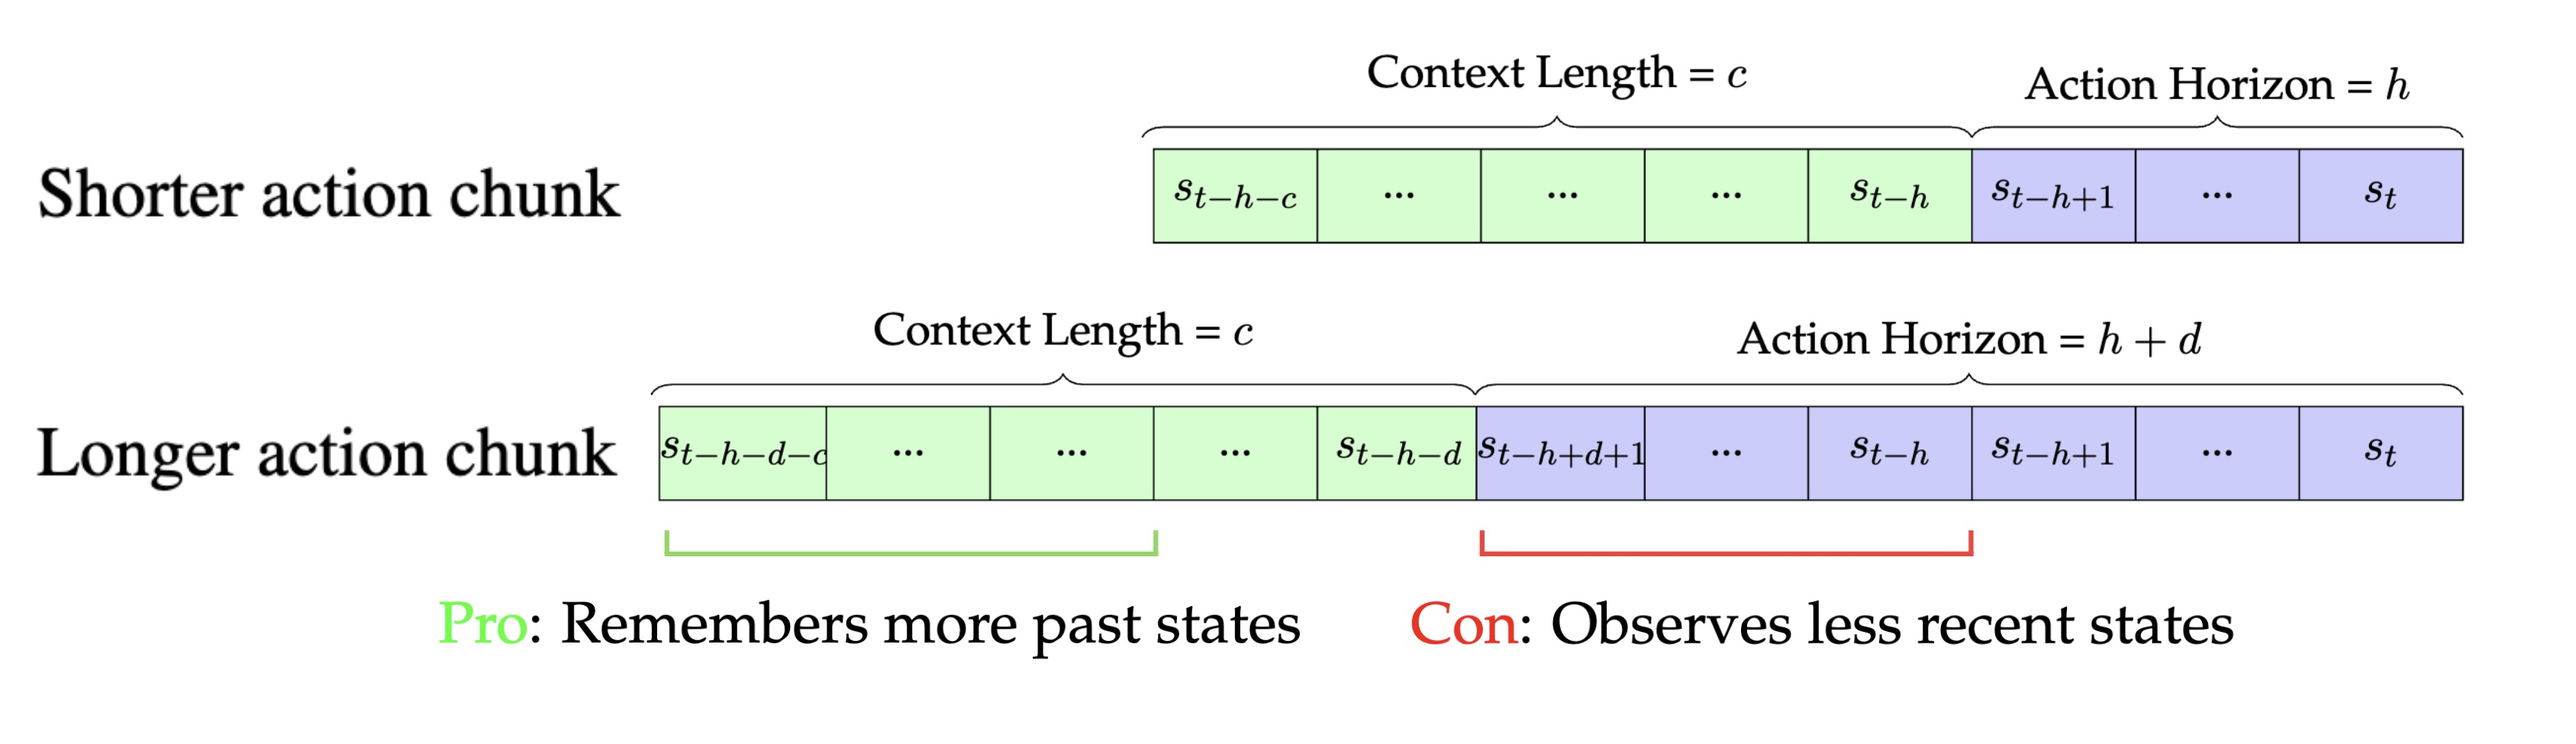
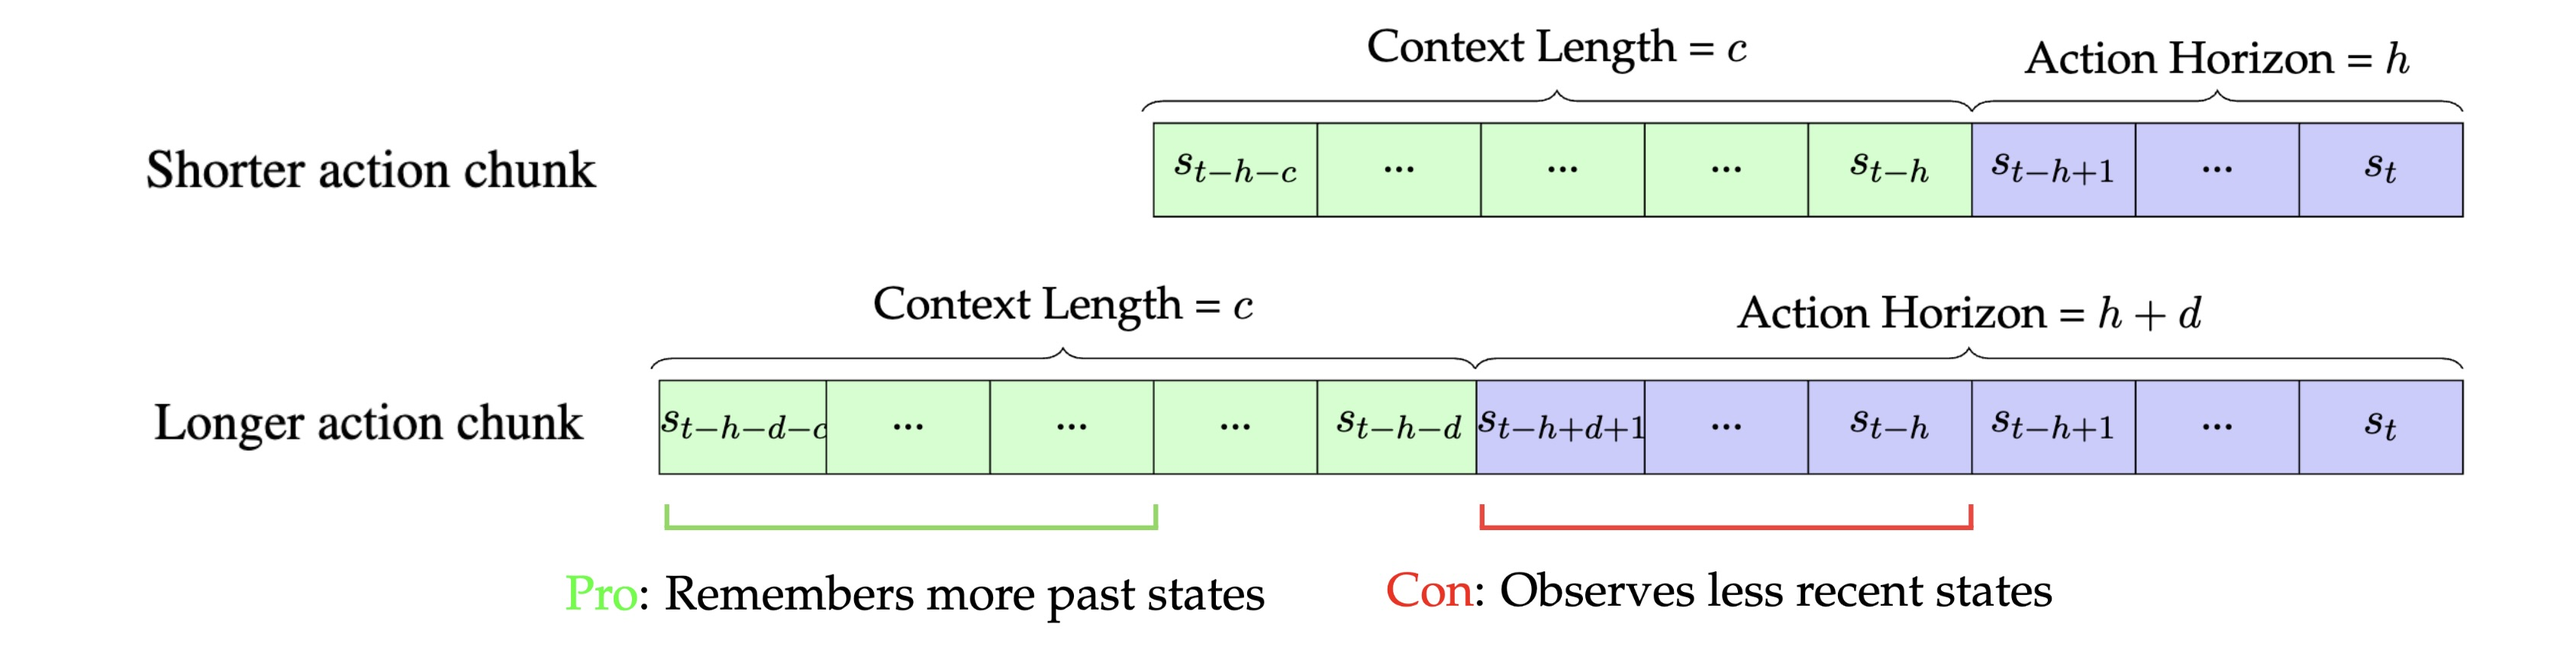
Polish

diff --git a/index.html b/index.html
@@ -6,7 +6,7 @@
         content="Bidirectional Behavioral Sampling.">
   <meta name="keywords" content="BBS">
   <meta name="viewport" content="width=device-width, initial-scale=1">
-  <title>Bidirectional Behavioral Sampling: Understanding and Improving Action Chunking for Generative Behavioral Cloning.</title>
+  <title>Bidirectional Behavioral Sampling: Understanding and Improving Action Chunking for Generative Behavioral Cloning</title>
 
   <!-- Global site tag (gtag.js) - Google Analytics -->
   <script async src="https://www.googletagmanager.com/gtag/js?id=G-PYVRSFMDRL"></script>
@@ -33,7 +33,7 @@
   <link rel="stylesheet"
         href="https://cdn.jsdelivr.net/gh/jpswalsh/academicons@1/css/academicons.min.css">
   <link rel="stylesheet" href="./static/css/index.css">
-  <link rel="icon" href="./static/images/favicon.svg">
+  <link rel="icon" href="./static/images/bbsicon.png">
 
   <script src="https://ajax.googleapis.com/ajax/libs/jquery/3.5.1/jquery.min.js"></script>
   <script defer src="./static/js/fontawesome.all.min.js"></script>
@@ -42,6 +42,7 @@
   <script src="./static/js/index.js"></script>
   <script src="https://polyfill.io/v3/polyfill.min.js?features=es6"></script>
   <script id="MathJax-script" async src="https://cdn.jsdelivr.net/npm/mathjax@3/es5/tex-mml-chtml.js"></script>
+
 </head>
 <body>
 
@@ -91,7 +92,7 @@
     <div class="container is-max-desktop">
       <div class="columns is-centered">
         <div class="column has-text-centered">
-          <h1 class="title is-1 publication-title">Bidirectional Behavioral Sampling: Understanding and Improving Action Chunking for Generative Behavioral Cloning.</h1>
+          <h1 class="title is-1 publication-title">Bidirectional Behavioral Sampling: Understanding and Improving Action Chunking for Generative Behavioral Cloning</h1>
           <div class="is-size-5 publication-authors">
             <span class="author-block">
               <a href="https://sites.google.com/view/yuejiangliu/home">Yuejiang Liu</a><sup>*</sup>,</span>
@@ -234,7 +235,6 @@
   </div>
 </section> -->
 
-
 <section class="section">
   <div class="container is-max-desktop">
     <!-- Abstract. -->
@@ -269,7 +269,7 @@
   <div class="container is-max-desktop">
     <div class="columns is-centered has-text-centered">
       <div class="column is-four-fifths">
-        <figure class="image is-centered">
+        <figure class="image is-centered" style="margin-bottom: 0;">
           <img src="./static/images/teaser.png" alt="Analysis image">
         </figure>
       </div>
@@ -277,7 +277,7 @@
   </div>
 </section>
 
-<section class="section">
+<section class="section" style="padding-top: 1rem;">
   <div class="container is-max-desktop">
     <!-- Abstract. -->
     <div class="columns is-centered has-text-centered">
@@ -288,6 +288,89 @@
   </div>
 </section>
 
+
+<!-- <section class="section">
+  <div class="container is-max-desktop">
+    <div class="columns is-centered has-text-centered">
+      <div class="column is-four-fifths">
+        <h2 class="title is-3">Abstract</h2>
+        <div class="content has-text-justified">
+          <p>
+            Predicting and executing a sequence of actions without intermediate replanning, known as action chunking, is increasingly used in robot learning from human demonstrations. However, its reported effects on the learned policy are inconsistent; some studies find it crucial for achieving strong results, while others observe decreased performance. In this paper, we first dissect how action chunking impacts the divergence between the learner and the demonstrator. We find that action chunking allows the model to capture the temporal dependencies in demonstrations (e.g., from high-level strategies and styles), but at the potential cost of accumulating uncertainty in dynamic environments (e.g., stochastic noise and unexpected changes), leading to compounding errors. To address this, we propose bidirectional behavioral sampling (BBS), a test-time inference algorithm that integrates action chunking with closed-loop operations. BBS samples a batch of multiple action chunks at each time step and explicitly searches for the optimal action based on two criteria: (i) backward decision coherence, which favors samples aligned with previous decisions, (ii) forward horizon contrast, which favors samples close to long-horizon plans and far from short-horizon ones. By coupling decisions within and across action chunks, BBS promotes strong temporal dependencies over multiple steps while maintaining high reactivity to unexpected state observations. Our experiment results show that BBS consistently outperforms conventional closed-loop operations, achieving an average of 26% relative improvements across seven manipulation tasks.
+          </p>
+        </div>
+      </div>
+    </div>
+  </div>
+</section>
+
+
+<section class="section">
+  <div class="container is-max-desktop">
+    <div class="columns is-centered has-text-centered">
+      <div class="column is-four-fifths">
+        <figure class="image is-centered">
+          <img src="./static/images/teaser.png" alt="Analysis image">
+        </figure>
+      </div>
+    </div>
+  </div>
+</section>
+
+<section class="section">
+  <div class="container is-max-desktop">
+    <div class="columns is-centered has-text-centered">
+      <div class="column is-four-fifths">
+        <h2 class="title is-3">Analysis</h2>
+      </div>
+    </div>
+  </div>
+</section> -->
+
+<section class="section">
+  <div class="container is-max-desktop">
+    <div class="columns is-centered has-text-centered">
+      <div class="column is-four-fifths">
+        <div class="content has-text-justified">
+          <p>
+            In action chunking, the agent predicts the joint distribution of a sequence of actions conditioned on the context and then executes all or part of the sequence without replanning. In our analysis, we investigate the benefits and drawbacks of using a longer action chunk. Consider a shorter action chunk of length \( h \) and a longer one of length \( h + d \). The longer action chunk benefits from remembering more past states and suffers from having not observed the more recent states, as is illustrated below:
+          </p>
+        </div>
+      </div>
+    </div>
+  </div>
+</section>
+
+<section class="section" style="padding-top: 0;">
+  <div class="container is-max-desktop">
+    <div class="columns is-centered has-text-centered">
+      <div class="column is-four-fifths">
+        <figure class="image is-centered" style="margin-top: 0; margin-bottom: 0;">
+          <img src="./static/images/Action Chunking.png" alt="Analysis gif" style="width: 90%; height: auto; display: block; margin: 0 auto;">
+        </figure>
+      </div>
+    </div>
+  </div>
+</section>
+
+<section class="section" style="padding-top: 1rem;">
+  <div class="container is-max-desktop">
+    <div class="columns is-centered has-text-centered">
+      <div class="column is-four-fifths">
+        <div class="content has-text-justified">
+          <p>
+            Let the longer action chunk's distribution of \( a_t \) be \( \pi_{(c, h+d)}^t \) and that of the shorter action chunk be \( \pi_{(c, h)}^t \). Let the expert's distribution be \(\pi_{E}^t \).  
+            The expected loss of the two agents with respect to the expert are related by the following inequality. 
+            $$ \min_{\pi_{(c, h+d)}^t} \mathbb{E}_{G} \left[ \mathcal{L}(\pi_{(c, h+d)}^t - \pi_E^t) | C \right] \leq \min_{\pi_{(c, h)}^t} \mathbb{E}_{G} \left[\mathcal{L}(\pi_{(c, h)}^t - \pi_E^t) | C \right] - \alpha + \epsilon(1 - ( 1 - \delta)^{2d}). $$ 
+            Here, \( \alpha \) represents the advantage from capturing more temporal dependencies in demos, showing a longer action chunk benefits from longer temporal coherence whilst suffering from \( \epsilon( 1 - (1 - \delta)^{2d} ) \) representing the loss due to dynamics uncertainty in the environment. 
+          </p>
+        </div>
+      </div>
+    </div>
+  </div>
+</section>
+
+<!-- 
 
 <section class="section">
   <div class="container is-max-desktop">
@@ -334,7 +417,7 @@
     </div>
   </div>
 </section>
-
+ -->
 
 <!-- <section class="section">
   <div class="container is-max-desktop">
@@ -352,10 +435,39 @@
 </section> -->
 
 
-<!-- Method section -->
 <section class="section">
   <div class="container is-max-desktop">
-    <!-- Abstract. -->
+    <div class="columns is-centered has-text-centered">
+      <div class="column is-four-fifths">
+        <h2 class="title is-3">Method</h2>
+        <div class="content has-text-justified">
+          <p>
+            Our hypothesis suggests that while the probability of any pair of samples sharing the same latent strategy is low, the likelihood of finding a consistent pair from a large number of samples is significantly higher. This motivates us to solve the closed-loop action chunking problem by identifying the optimal action within a batch of plans at each time step, \( a^* = \arg \min_{a \in \mathcal{A}} \mathcal{L}_B(a) + \mathcal{L}_F(a) \) where  \( \mathcal{L}_B \) and \( \mathcal{L}_F \) are two criteria measuring the temporal dependency with respect to the backward decision and forward plan.
+            To ensure temporal coherence, we  reference the action chunk from the previous time step, \( \{ \hat{a}_{t-1}, \cdots, \hat{a}_{t+h-1} \} \) and minimize the weighted sum of Euclidean distance across \( h - 1 \) overlapping steps: 
+            $$ \mathcal{L}_B = \sum_{\tau=0}^{h-1} \rho^\tau \left\| a_{t+\tau} - {\hat a}_{t+\tau} \right\|_2. $$
+            This encourages consistent latent strategies across time steps, while allowing for gradual adaptation to unforeseen environment dynamics. A robust policy should predict far enough to capture temporal dependencies in demonstrations. To ensure this, we compare each candidate plan with two reference sets: one from a long-horizon policy and the other from a short-horizon one. The forward objective minimizes the average distance to positive samples from long horizon policy, \( \mathcal{A}^+ \), and maximizes the average distance to negative samples from short horizon policy, \( \mathcal{A}^- \):
+            $$ \mathcal{L}_F = \sum_{a^{+} \in \mathcal{A}^{+}} \sum_{\tau=0}^{h'} \left\| a_{t+\tau} - a^{+}_{t+\tau} \right\|_2 - \sum_{a^{-} \in \mathcal{A}^{-}} \sum_{\tau=0}^{h'} \left\| a_{t+\tau} - a^{-}_{t+\tau} \right\|_2, $$ where \( \mathcal{A}^{+} = \mathcal{A} \setminus \{a\} \) is the positive set predicted by the long-horizon policy \( \pi \), \( \mathcal{A}^{-} \) is the negative set predicted by the short-horizon one \( \pi' \), and \( h' \) is the short prediction horizon. We set \( h' = h / 4 \) to ensure a substantial horizon difference between the two policies.
+          </p>
+        </div>
+      </div>
+    </div>
+  </div>
+</section>
+
+<section class="section" style="padding-top: 0;">
+  <div class="container is-max-desktop">
+    <div class="columns is-centered has-text-centered">
+      <div class="column is-four-fifths">
+        <figure class="image is-centered" style="margin-top: 0; margin-bottom: 0;">
+          <img src="./static/images/search.png" alt="Analysis image" style="width: 40%; height: auto; display: block; margin: 0 auto;">
+        </figure>
+      </div>
+    </div>
+  </div>
+</section>
+
+<!-- <section class="section">
+  <div class="container is-max-desktop">
     <div class="columns is-centered has-text-centered">
       <div class="column is-four-fifths">
         <h2 class="title is-3">Method</h2>
@@ -383,15 +495,12 @@
       </div>
     </div>
   </div>
-</section>
+</section> -->
 
 
 <section class="section">
   <div class="container is-max-desktop">
-
     <div class="columns is-centered">
-
-      <!-- Visual Effects. -->
       <div class="column">
         <div class="content">
           <h2 class="title is-3">Simulations 1</h2>
